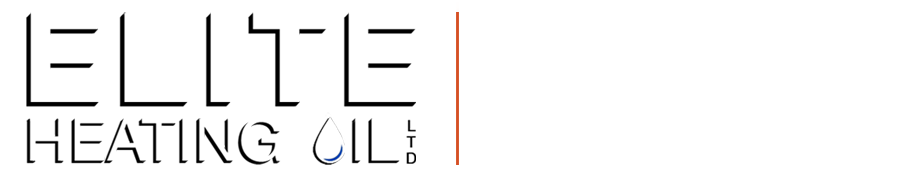
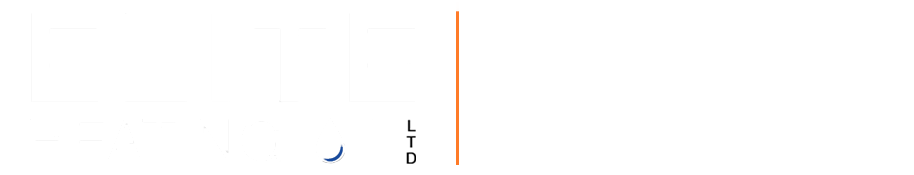
Updated hero color

diff --git a/wp-content/themes/eliteheatingoil/dist/css/style.min.css b/wp-content/themes/eliteheatingoil/dist/css/style.min.css
@@ -1,2 +1,2 @@
-.slick-slide .slide-content,.slick-slide::before{vertical-align:middle;display:inline-block}.btn-orange,.price-slice{font-weight:700;color:#fff}.nav{padding:20px;border-bottom:5px solid #ff7b28}.hero{background-color:#074ab9;padding:40px 0}.hero-slider .slide img{margin:0 auto 20px}.slick-slide::before{content:'';height:100%}.slick-slide .slide-content button{margin:0 auto}.price-slice{margin:20px 0}.price-slice h2,.price-slice h3{margin:10px}.price-slice .content{height:205px;background-image:url(../../images/truck.png);background-position:center;-webkit-background-size:cover;background-size:cover;background-repeat:no-repeat}.price-slice .message{margin:auto;position:absolute;top:0;bottom:0;right:0;left:0;height:150px;width:244px}@media (min-width:576px){.price-slice .message{right:50px;left:auto}}@media (min-width:992px){.price-slice .message{right:80px}}@media (min-width:1200px){.price-slice .message{right:115px}}.oil-price-container{padding:0}.oil-price-container .oil-price{margin:0 0 10px -20px;font-size:4.5rem}@media (min-width:320px){.price-slice .message{width:258px}.oil-price-container .oil-price{margin:0 0 10px}}.per-litre-container{padding:0;margin:5px 0}.btn-orange{background-color:#ff7b28;padding:6px 14px;font-size:1.5rem;border-bottom:4px solid #b35c07;text-transform:uppercase;-webkit-transition:all .1s ease-in-out;transition:all .1s ease-in-out}.btn-orange:hover{background-color:#ff9654;margin-top:-5px!important;color:#fff}@media (min-width:768px){.btn-orange{padding:10px 25px}}.slick-list{margin:20px}.slick-dots li.slick-active button::before{opacity:4.75;color:#fff}.slick-dots{bottom:auto}.slick-dots li button::before{font-size:12px;color:#fff}.slick-next{right:0}.slick-prev{left:0}
+.slick-slide .slide-content,.slick-slide::before{vertical-align:middle;display:inline-block}.btn-orange,.price-slice{font-weight:700;color:#fff}.nav{padding:20px;border-bottom:5px solid #ff7b28}.hero{background-color:#1d4b97;padding:40px 0}.hero-slider .slide img{margin:0 auto 20px}.slick-slide::before{content:'';height:100%}.slick-slide .slide-content button{margin:0 auto}.price-slice{margin:20px 0}.price-slice h2,.price-slice h3{margin:10px}.price-slice .content{height:205px;background-image:url(../../images/truck.png);background-position:center;-webkit-background-size:cover;background-size:cover;background-repeat:no-repeat}.price-slice .message{margin:auto;position:absolute;top:0;bottom:0;right:0;left:0;height:150px;width:244px}@media (min-width:576px){.price-slice .message{right:50px;left:auto}}@media (min-width:992px){.price-slice .message{right:80px}}@media (min-width:1200px){.price-slice .message{right:115px}}.oil-price-container{padding:0}.oil-price-container .oil-price{margin:0 0 10px -20px;font-size:4.5rem}@media (min-width:320px){.price-slice .message{width:258px}.oil-price-container .oil-price{margin:0 0 10px}}.per-litre-container{padding:0;margin:5px 0}.btn-orange{background-color:#ff7b28;padding:6px 14px;font-size:1.5rem;border-bottom:4px solid #b35c07;text-transform:uppercase;-webkit-transition:all .1s ease-in-out;transition:all .1s ease-in-out}.btn-orange:hover{background-color:#ff9654;margin-top:-2px!important;color:#fff}@media (min-width:768px){.btn-orange{padding:10px 25px}}.slick-list{margin:20px}.slick-dots li.slick-active button::before{opacity:4.75;color:#fff}.slick-dots{bottom:auto}.slick-dots li button::before{font-size:12px;color:#fff}.slick-next{right:0}.slick-prev{left:0}
 /*# sourceMappingURL=style.min.css.map */

diff --git a/wp-content/themes/eliteheatingoil/dist/css/style.css b/wp-content/themes/eliteheatingoil/dist/css/style.css
@@ -11,7 +11,7 @@ Tags: bootstrap
 }
 
 .hero {
-  background-color: #074ab9;
+  background-color: #1d4b97;
   padding: 40px 0;
 }
 
@@ -125,7 +125,7 @@ Tags: bootstrap
 
 .btn-orange:hover {
   background-color: #ff9654;
-  margin-top: -5px !important;
+  margin-top: -2px !important;
   color: white;
 }
 

diff --git a/wp-content/themes/eliteheatingoil/style.css b/wp-content/themes/eliteheatingoil/style.css
@@ -1,0 +1,7 @@
+/*
+Theme Name: Elite Heating Oil Custom Theme
+Author: Kyle Cogswell
+Description: Custom theme built to meet business requirements of Elite Heating Oil
+Version: 0.0.1
+Tags: bootstrap
+*/

diff --git a/wp-content/themes/eliteheatingoil/scss/components/_buttons.scss b/wp-content/themes/eliteheatingoil/scss/components/_buttons.scss
@@ -10,7 +10,7 @@
 
     &:hover{
         background-color: #ff9654;
-        margin-top: -5px !important;
+        margin-top: -2px !important;
         color: white;
     }
 

diff --git a/wp-content/themes/eliteheatingoil/scss/layout/_hero.scss b/wp-content/themes/eliteheatingoil/scss/layout/_hero.scss
@@ -1,5 +1,5 @@
 .hero {
-  background-color: #074ab9;
+  background-color: #1d4b97;
   // height: 400px;
   padding: 40px 0;
 }

diff --git a/wp-content/themes/eliteheatingoil/home.php b/wp-content/themes/eliteheatingoil/home.php
@@ -6,19 +6,19 @@
     <div class="hero-slider text-center">
       <div class="slide">
         <div class="slide-content">
-          <img src="<?php echo get_bloginfo( 'template_directory' );?>/images/promo.png" alt="" class="img-responsive">
+          <img src="<?php echo get_bloginfo( 'template_directory' );?>/images/promo_old.png" alt="" class="img-responsive">
           <button type="button" class="btn btn-orange">Order Now</button>
         </div>
       </div>
       <div class="slide">
         <div class="slide-content text-center">
-          <img src="<?php echo get_bloginfo( 'template_directory' );?>/images/promo.png" alt="" class="img-responsive">
+          <img src="<?php echo get_bloginfo( 'template_directory' );?>/images/promo_old.png" alt="" class="img-responsive">
           <button type="button" class="btn btn-orange">Order Now</button>
         </div>
       </div>
       <div class="slide">        
         <div class="slide-content text-center">
-          <img src="<?php echo get_bloginfo( 'template_directory' );?>/images/promo.png" alt="" class="img-responsive">
+          <img src="<?php echo get_bloginfo( 'template_directory' );?>/images/promo_old.png" alt="" class="img-responsive">
           <button type="button" class="btn btn-orange">Order Now</button>
         </div>
       </div>
